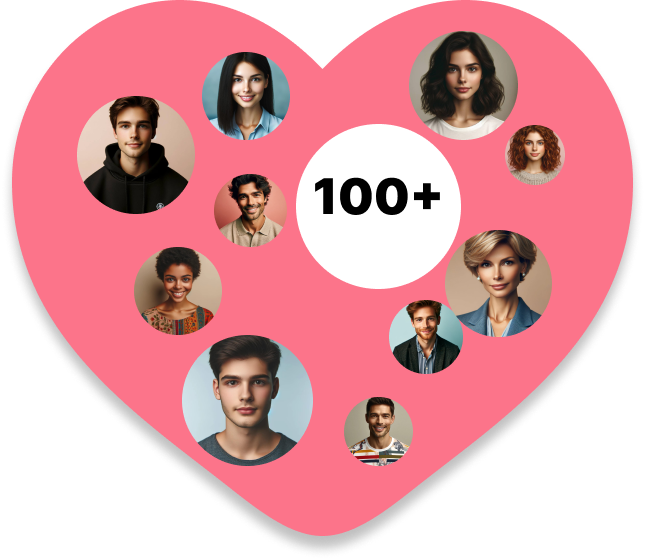
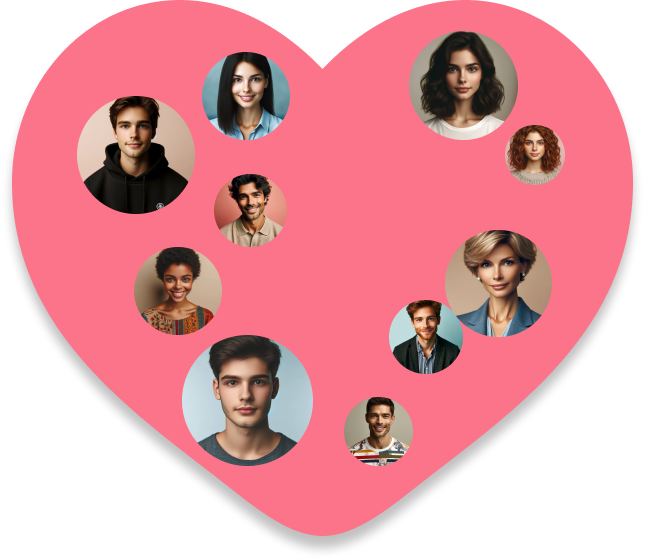
Slider final version

Changed region(s): [[0.4341, 0.2125, 0.7132, 0.5161]]

diff --git a/src/components/DraggableCarousel/styles.ts b/src/components/DraggableCarousel/styles.ts
@@ -1,5 +1,6 @@
 import { css } from "@emotion/react";
 import { roboto } from "@/src/theme/fonts";
+import theme from "@/src/theme/theme";
 
 export const Container = css`
   position: relative;
@@ -67,8 +68,8 @@ export const Cards = css`
     }
 
     @media (max-width: 960px) {
-        top: 11px;
-        right: -3px;
+      top: 11px;
+      right: -3px;
     }
 
     & > div {
@@ -91,6 +92,56 @@ export const Cards = css`
         width: 330px;
         height: 300px;
       }
+    }
+  }
+`;
+
+export const VolonteersText = css`
+  position: absolute;
+  z-index: 1;
+  right: 178px;
+  top: 135px;
+  display: flex;
+  flex-direction: column;
+  align-items: center;
+  justify-content: center;
+  padding: 5px;
+  box-sizing: border-box;
+  font-size: 24px;
+  width: 165px;
+  height: 165px;
+  border-radius: 50%;
+  background: ${theme.palette.common.white};
+  user-select: none;
+
+  span {
+    font-size: 49px;
+    line-height: 45px;
+  }
+
+  @media (max-width: 1400px) {
+    right: 141px;
+    top: 86px;
+    width: 120px;
+    height: 120px;
+    font-size: 17px;
+
+    span {
+      font-size: 38px;
+      line-height: 33px;
+    }
+  }
+
+  @media (max-width: 960px) {
+    right: 95px;
+    top: 69px;
+    width: 86px;
+    height: 86px;
+    font-size: 12px;
+
+    span {
+      font-size: 28px;
+      line-height: 24px;
     }
   }
 `;
@@ -128,7 +179,7 @@ export const SliderTitle = css`
 
   @media (max-width: 1400px) {
     font-size: 40px;
-    line-height: 38px;
+    line-height: 42px;
   }
 `;
 
@@ -138,9 +189,9 @@ export const JoinButton = css`
   justify-content: center;
   width: fit-content;
   padding: 18px 40px;
-  background: #fff;
+  background: ${theme.palette.common.white};
   min-width: 92px;
-  color: #000000;
+  color: ${theme.palette.helpers.black};
   border-radius: 46px;
   box-shadow: 4px 5px 4px 0 rgba(0, 0, 0, 0.15);
   margin-bottom: 10px;
@@ -179,11 +230,11 @@ export const ControlButton = css`
   width: 20px;
   height: 20px;
   border-radius: 50%;
-  border: 1px solid #020202;
+  border: 1px solid ${theme.palette.helpers.darkGrey};
 
   &:disabled {
     opacity: 0.5;
-    border: 1px solid #02020234;
+    border: 1px solid ${theme.palette.helpers.darkGreyTransparent};
   }
 `;
 
@@ -197,7 +248,7 @@ export const ProgressBar = css`
   position: relative;
   width: 26px;
   height: 2px;
-  background: rgba(0, 0, 0, 0.08);
+  background: ${theme.palette.helpers.darkGreyTransparent};
   margin: 0 10px;
   overflow: hidden;
 
@@ -205,7 +256,7 @@ export const ProgressBar = css`
     position: absolute;
     top: 0;
     left: 0;
-    background: #000000;
+    background: ${theme.palette.helpers.black};
     height: 2px;
     transition: 0.1s;
   }

diff --git a/src/theme/theme.ts b/src/theme/theme.ts
@@ -1,0 +1,81 @@
+"use client";
+
+import { createTheme } from "@mui/material/styles";
+import { inter, poppins, roboto } from "@/src/theme/fonts";
+import { CustomTheme } from "../components/types";
+
+const theme = createTheme({
+  palette: {
+    primary: {
+      main: "#0057B8",
+      100: "#B3D7FF",
+      200: "#80BCFF",
+      300: "#4DA1FF",
+      400: "#1A86FF",
+      500: "#006DE6",
+      600: "#0054B3",
+      700: "#003C80",
+      800: "#00244D",
+    },
+    secondary: {
+      main: "#FAE0FC",
+    },
+    text: {
+      primary: "#1C1C1C",
+    },
+    common: {
+      white: "#FFFFFF",
+    },
+    helpers: {
+      // Custom helpers section
+      yellow: "#EED686",
+      rose: "#EEA1A9",
+      violet: "#A9BBED",
+      green: "#B7DB9A",
+      black: "#000000",
+      darkGrey: "#020202",
+      darkGreyTransparent: "#02020234",
+      skyBlue: "#BDE8FA",
+      lightGrayishOrange: "#F6E8CD",
+      paleMagenta: "#FFE5FD",
+    },
+  },
+  typography: {
+    fontFamily: `${inter.style.fontFamily}, ${poppins.style.fontFamily}, ${roboto.style.fontFamily}, sans-serif`,
+    h2: {
+      fontFamily: `${inter.style.fontFamily}, sans-serif`,
+      fontSize: "84px",
+      fontWeight: 600,
+    },
+    h3: {
+      fontSize: "54px",
+    },
+    h4: {
+      fontFamily: `${poppins.style.fontFamily}, sans-serif`,
+      fontSize: "54px",
+      fontWeight: 800,
+    },
+    h5: {
+      fontFamily: `${inter.style.fontFamily}, sans-serif`,
+      fontSize: "32px",
+      fontWeight: 800,
+    },
+    body1: {
+      fontFamily: `${poppins.style.fontFamily}, sans-serif`,
+      fontSize: "24px",
+      fontWeight: 300,
+    },
+    body2: {
+      fontFamily: `${poppins.style.fontFamily}, sans-serif`,
+      fontSize: "14px",
+      fontWeight: 300,
+    },
+    caption: {
+      fontFamily: `${inter.style.fontFamily}, sans-serif`,
+      fontSize: "20px",
+      fontWeight: 600,
+    },
+  },
+}) as CustomTheme;
+
+export default theme;

diff --git a/src/components/DraggableCarousel/helpers.ts b/src/components/DraggableCarousel/helpers.ts
@@ -1,3 +1,4 @@
+import theme from "@/src/theme/theme";
 import RedHart from "@/public/images/slider/red.png";
 import Tech from "@/public/images/slider/technology.png";
 import Pets from "@/public/images/slider/pets.png";
@@ -8,38 +9,39 @@ import { ICards } from "./types";
 export const cards: ICards[] = [
   {
     image: Pets.src,
-    color: "#FFE5FD",
+    color: theme.palette.helpers.paleMagenta,
     title: "slider.titlePets",
     subtitle: "slider.subTitlePets",
     link: "/about-us",
   },
   {
     image: Hygienebank.src,
-    color: "#BDE8FA",
+    color: theme.palette.helpers.skyBlue,
     title: "slider.titleHygiene",
     subtitle: "slider.subTitleHygiene",
     link: "/about-us",
   },
   {
     image: Foodbank.src,
-    color: "#F6E8CD",
+    color: theme.palette.helpers.lightGrayishOrange,
     title: "slider.titleFood",
     subtitle: "slider.subTitleFood",
     link: "/about-us",
   },
   {
     image: Tech.src,
-    color: "#F6E8CD",
+    color: theme.palette.helpers.lightGrayishOrange,
     title: "slider.titleTech",
     subtitle: "slider.subTitleTech",
     link: "/about-us",
   },
   {
     image: RedHart.src,
-    color: "#BDE8FA",
+    color: theme.palette.helpers.skyBlue,
     title: "slider.titleRed",
     subtitle: "slider.subTitleRed",
     link: "/about-us",
+    text: "slider.volunteers"
   },
 ];
 

diff --git a/src/components/DraggableCarousel/DraggableCarousel.tsx b/src/components/DraggableCarousel/DraggableCarousel.tsx
@@ -1,8 +1,9 @@
 "use client";
 import { useEffect, useState } from "react";
+import { useTranslations } from "next-intl";
 import { useSprings, animated, to as interpolate } from "@react-spring/web";
 import { useDrag } from "@use-gesture/react";
-import { Box } from "@mui/material";
+import { Box, Typography } from "@mui/material";
 import { ILocale } from "@/src/types";
 import { ProgressBar, CarouselInfo } from "@/src/components";
 import {
@@ -27,7 +28,7 @@ const DraggableCarousel = ({ locale }: ILocale) => {
     ...to(i),
     from: from(),
   })); // Create springs for each card
-
+  const t = useTranslations("HomePage");
   const { currentSlide, formatedNumber, formatedCardsNumber } =
     getCurrentSlide(next);
 
@@ -158,6 +159,11 @@ const DraggableCarousel = ({ locale }: ILocale) => {
         <Box sx={{ ...S.Cards }}>
           {props.map(({ x, y, rot, scale }, i) => (
             <animated.div className="deck" key={i} style={{ x, y }}>
+              {cards[i].text && (
+                <Typography variant="h5" sx={{ ...S.VolonteersText }}>
+                  <span>{t("slider.qtyOfVolunteers")}</span> {t(cards[i].text)}
+                </Typography>
+              )}
               <animated.div
                 {...bind(i)}
                 style={{

diff --git a/src/components/hooks/useViewport.tsx b/src/components/hooks/useViewport.tsx
@@ -1,21 +1,26 @@
+'use client'
 import { useState, useEffect } from 'react';
 
 const useViewport = () =>  {
-  const [viewportWidth, setViewportWidth] = useState(window.innerWidth);
-  const [viewportHeight, setViewportHeight] = useState(window.innerHeight);
+  const [viewportWidth, setViewportWidth] = useState(0);
+  const [viewportHeight, setViewportHeight] = useState(0);
 
-  useEffect(() => {
-    const handleResize = () => {
+ useEffect(() => {
+    if (typeof window !== 'undefined') {
       setViewportWidth(window.innerWidth);
       setViewportHeight(window.innerHeight);
-    };
 
-    window.addEventListener('resize', handleResize);
+      const handleResize = () => {
+        setViewportWidth(window.innerWidth);
+        setViewportHeight(window.innerHeight);
+      };
 
-    // Cleanup event listener on unmount
-    return () => {
-      window.removeEventListener('resize', handleResize);
-    };
+      window.addEventListener('resize', handleResize);
+
+      return () => {
+        window.removeEventListener('resize', handleResize);
+      };
+    }
   }, []);
 
   return { viewportWidth, viewportHeight };

diff --git a/src/components/DraggableCarousel/types.ts b/src/components/DraggableCarousel/types.ts
@@ -1,25 +1,26 @@
 import { ILocale } from "@/src/types";
 
 export interface ICards {
-    image: string;
-    color: string;
-    title: string;
-    subtitle: string;
-    link: string;
+  image: string;
+  color: string;
+  title: string;
+  subtitle: string;
+  link: string;
+  text?: string;
 }
 
 export interface CarouselInfoProps {
-    currentEl: number,
-    children: React.ReactNode,
-    direction: (value: string) => void;
-    currentSlide: ICards;
-    formatedNumber: number | string;
-    formatedCardsNumber: number | string;
-    locale: ILocale['locale']
+  currentEl: number;
+  children: React.ReactNode;
+  direction: (value: string) => void;
+  currentSlide: ICards;
+  formatedNumber: number | string;
+  formatedCardsNumber: number | string;
+  locale: ILocale["locale"];
 }
 
 export interface ProgressBarProps {
-    progress: number;
-    next: number
-    setProgress: (progress: number) => void;
+  progress: number;
+  next: number;
+  setProgress: (progress: number) => void;
 }

diff --git a/src/components/types.ts b/src/components/types.ts
@@ -1,0 +1,21 @@
+import {Theme } from "@mui/material/styles";
+import { Palette } from "@mui/material/styles/createPalette";
+
+interface CustomPalette extends Palette {
+  helpers: Record<string, string>;
+}
+
+declare module "@mui/material/styles" {
+  interface Palette {
+    helpers: CustomPalette["helpers"];
+  }
+
+  interface PaletteOptions {
+    helpers?: CustomPalette["helpers"];
+  }
+}
+
+// Extend the Theme interface to include the new palette type
+export interface CustomTheme extends Theme {
+  palette: CustomPalette;
+}
